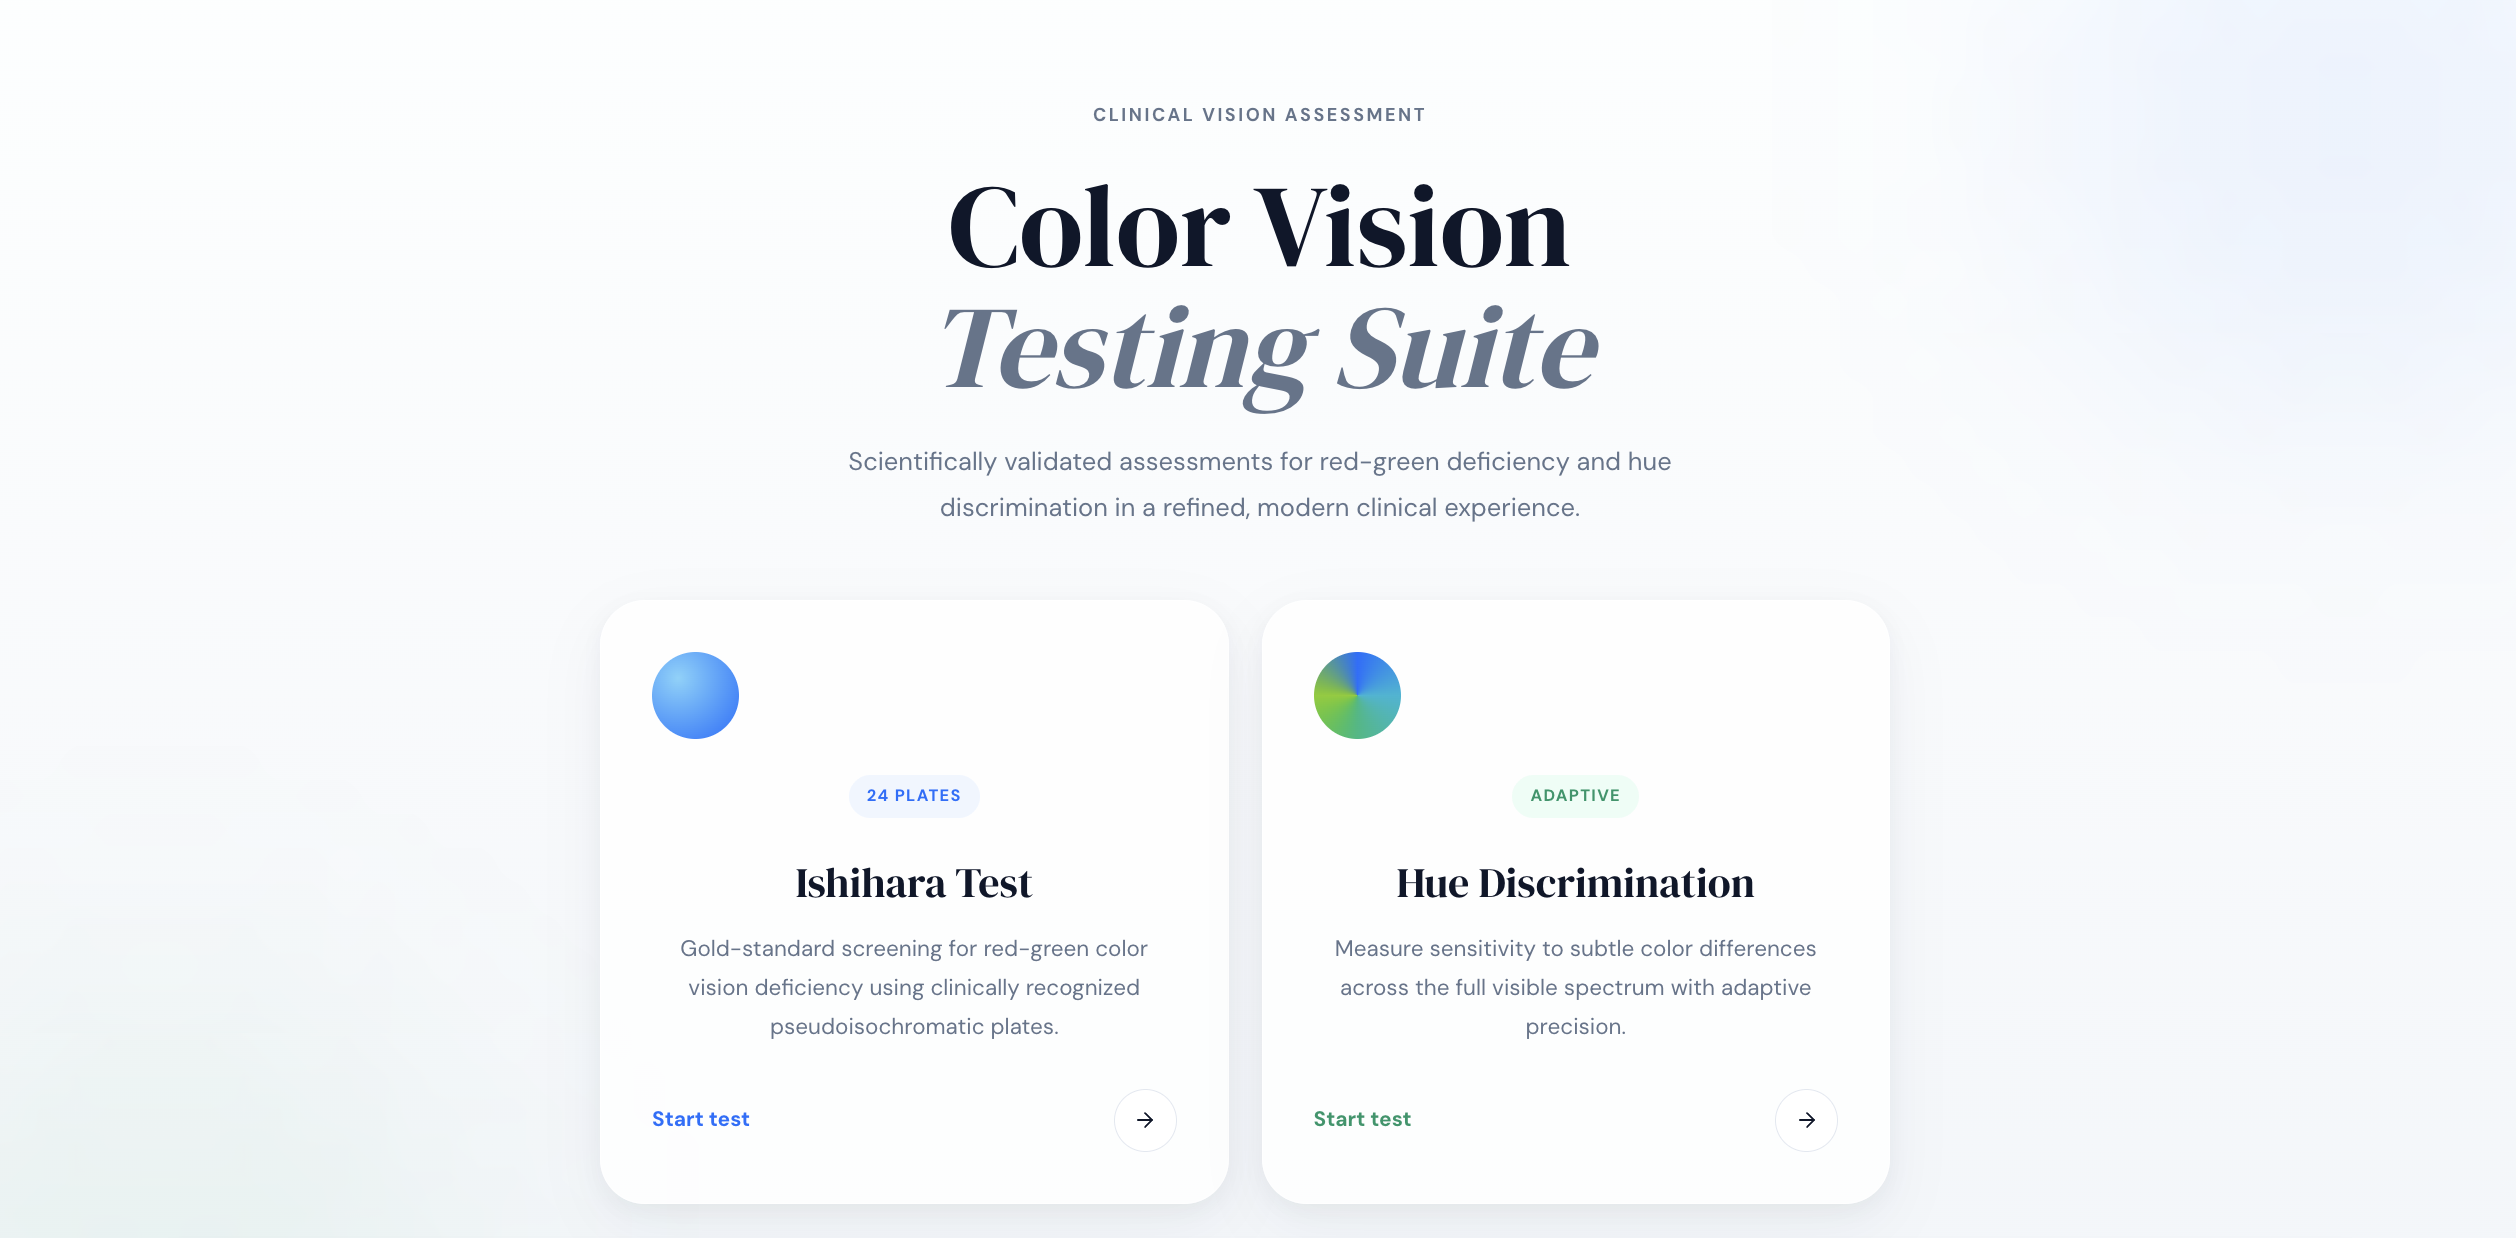
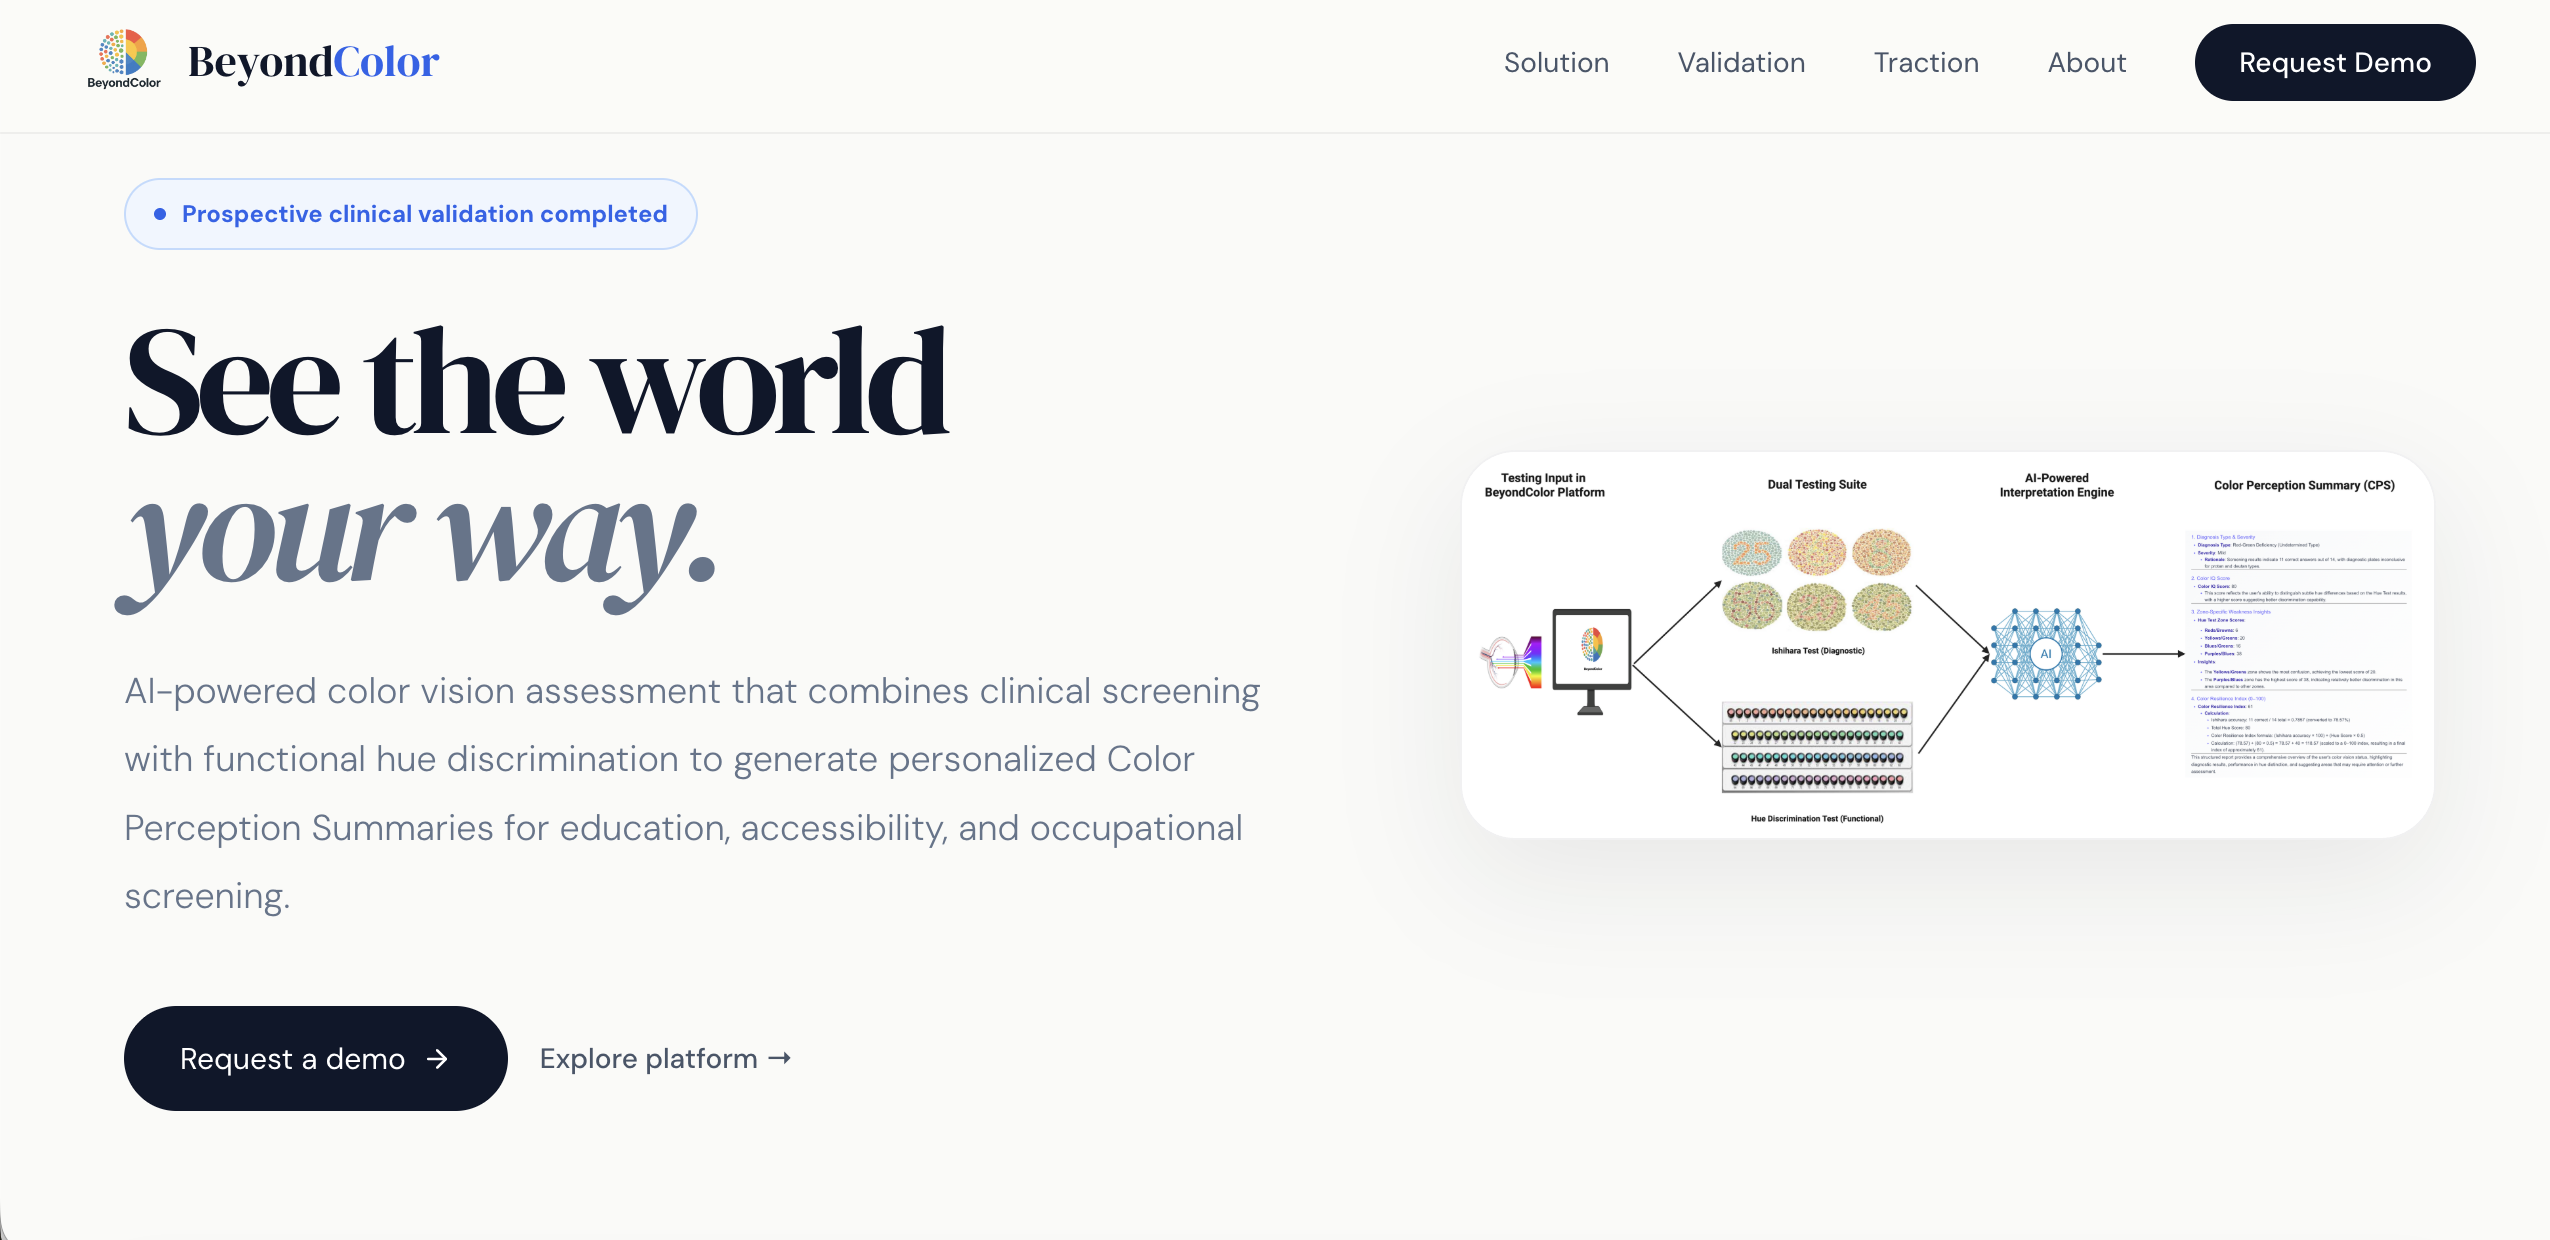
added search engine product

diff --git a/src/data/projects.ts b/src/data/projects.ts
@@ -46,7 +46,7 @@ export const projects: Project[] = [
       problem:
         "Student freelancers lack a trusted, structured platform to find work. Existing marketplaces are saturated, generic, and not tailored to student workflows or trust mechanisms.",
       solution:
-"Built a dedicated freelance marketplace with Stripe-based checkout infrastructure, student-focused onboarding, and a clean UX for posting, discovery, and transactions.",
+        "Built a dedicated freelance marketplace with Stripe-based checkout infrastructure, student-focused onboarding, and a clean UX for posting, discovery, and transactions.",
       outcome:
         "Secured $6K in non-dilutive funding, launched live payments, and onboarded early users actively posting and completing gigs.",
       role:
@@ -76,46 +76,46 @@ export const projects: Project[] = [
         "Founding member — contributed to product development, frontend engineering, and AI workflow design.",
     },
   },
- {
-  title: "BeyondColor",
-  tag: "healthtech",
-  accent: "#6366f1",
-  badge: "Co-founder",
-  tech: ["Next.js", "Computer Vision", "Healthcare", "Product"],
-  highlights: [
-    "$6K Non-Dilutive Funding",
-    "Chicago Booth I2M",
-    "Microsoft Pitch"
-  ],
-  status: "beta",
-  image: "/projects/beyondcolor.png",
-  link: "https://beyondcolor.app",
-  description:
-    "Funded digital health startup modernizing color vision screening through real-world perception and accessibility.",
+  {
+    title: "BeyondColor",
+    tag: "healthtech",
+    accent: "#6366f1",
+    badge: "Co-founder",
+    tech: ["Next.js", "Computer Vision", "Healthcare", "Product"],
+    highlights: [
+      "$6K Non-Dilutive Funding",
+      "Chicago Booth I2M",
+      "Microsoft Pitch"
+    ],
+    status: "beta",
+    image: "/projects/beyondcolor.png",
+    link: "https://beyondcolor.app",
+    description:
+      "Funded digital health startup modernizing color vision screening through real-world perception and accessibility.",
 
-  featured: true,
+    featured: true,
 
-  cred: [
-    { label: "$5K NSF i-Corps", type: "funding" },
-    { label: "$1K Booth I2M", type: "funding" },
-    { label: "Microsoft Pitch", type: "award" },
-    { label: "Chicago Booth", type: "program" },
-  ],
+    cred: [
+      { label: "$5K NSF i-Corps", type: "funding" },
+      { label: "$1K Booth I2M", type: "funding" },
+      { label: "Microsoft Pitch", type: "award" },
+      { label: "Chicago Booth", type: "program" },
+    ],
 
-  details: {
-    problem:
-      "Traditional color vision tests rely on static charts that fail to reflect real-world perception, often leading to inaccurate screening outcomes.",
+    details: {
+      problem:
+        "Traditional color vision tests rely on static charts that fail to reflect real-world perception, often leading to inaccurate screening outcomes.",
 
-    solution:
-      "Built a modern digital screening platform with interactive testing, accessibility-first UX, and future-ready adaptive analytics.",
+      solution:
+        "Built a modern digital screening platform with interactive testing, accessibility-first UX, and future-ready adaptive analytics.",
 
-    outcome:
-      "Secured $6K in non-dilutive funding, presented at Microsoft Chicago, completed customer discovery including San Francisco startup ecosystem interviews, and validated market demand across healthcare and accessibility sectors.",
+      outcome:
+        "Secured $6K in non-dilutive funding, presented at Microsoft Chicago, completed customer discovery including San Francisco startup ecosystem interviews, and validated market demand across healthcare and accessibility sectors.",
 
-    role:
-      "Co-founder — led product strategy, fundraising, customer discovery, partnerships, and product execution.",
+      role:
+        "Co-founder — led product strategy, fundraising, customer discovery, partnerships, and product execution.",
+    },
   },
-},
   {
     title: "ThreadO",
     tag: "product",
@@ -137,6 +137,45 @@ export const projects: Project[] = [
         "Lead engineer — architecture, Firebase integration, social graph logic, UI.",
     },
   },
+
+  {
+    title: "Distributed Search Engine",
+    tag: "systems",
+    accent: "#06b6d4",
+    tech: [
+      "Go",
+      "Distributed Systems",
+      "Docker",
+      "Concurrency",
+      "TF-IDF",
+      "REST APIs"
+    ],
+    highlights: [
+      "250K Documents Indexed",
+      "3 Search Shards",
+      "500 QPS Tested"
+    ],
+    status: "live",
+    image: "/projects/search-engine.png",
+    link: "https://github.com/yourusername/distributed-search-engine",
+    description:
+      "Horizontally scalable search engine built in Go with sharded inverted indexes, concurrent query fan-out, TF-IDF ranking, and top-K retrieval.",
+    featured: true,
+
+    details: {
+      problem:
+        "Traditional search systems become bottlenecked when a single node is responsible for indexing and ranking large document collections.",
+
+      solution:
+        "Built a distributed search architecture consisting of multiple shard servers and a query aggregator. Each shard maintains an inverted index and independently executes TF-IDF ranking, while the aggregator performs concurrent fan-out requests and merges global top-K results.",
+
+      outcome:
+        "Indexed 150,000+ documents across three shards and benchmarked the system under load using Vegeta. Achieved 500 requests per second with concurrent shard querying, connection pooling, and Dockerized deployment.",
+
+      role:
+        "Designed the distributed architecture, implemented indexing and ranking algorithms in Go, built shard aggregation logic, containerized services with Docker, and conducted performance benchmarking and optimization."
+    }
+  },
   {
     title: "SwapCampus",
     tag: "product",
@@ -149,13 +188,15 @@ export const projects: Project[] = [
     description: "Campus-only marketplace with identity-based access control.",
     details: {
       problem:
-        "Facebook Marketplace is unsafe for campus trades — no identity verification means scams are rampant and trust is near zero.",
+        "Buying and selling on large marketplaces can feel risky for students because there is little accountability and no campus-specific verification.",
+
       solution:
-        "Built a .edu email-gated marketplace with JWT-based identity, moderated listings, and an escrow-style handoff flow. MongoDB powers fast search across categories.",
+        "Built a campus-only marketplace with .edu email verification, secure authentication, moderated listings, and category-based search.",
+
       outcome:
-        "Live with 150+ listings in the first month. Zero reported scam incidents. Expanding to two more campuses.",
+        "Built and launched a functional campus marketplace with authentication, search, and listing management features.",
       role:
-        "Solo founder — backend, auth system, moderation tools, full deployment.",
+        "Solo builder — designed the product, built the backend and authentication system, and handled deployment.",
     },
   },
   {

diff --git a/src/components/HomePage.tsx b/src/components/HomePage.tsx
@@ -32,7 +32,7 @@ type Project = {
 
   badge?: "Founder" | "Co-founder" | "Founding member"; // 👈 ADD THIS
 
-  proof?: string; // 👈 OPTIONAL (for 1-line credibility like "150+ users")
+  proof?: string; // 
 
   details?: {
     problem: string;
@@ -190,6 +190,31 @@ cred: [
       role: "Lead engineer — architecture, Firebase integration, social graph logic, UI.",
     },
   },
+
+  {
+  title: "Distributed Search Engine",
+  slug: "distributed-search-engine",
+  tag: "systems",
+  accent: "#06b6d4",
+  tech: ["Go", "Docker", "TF-IDF", "Sharding", "Concurrency", "REST APIs"],
+  highlights: ["150K+ Docs", "3 Shards", "500 QPS Tested"],
+  status: "research",
+  image: "/projects/search-engine.png",
+  link: "https://github.com/manavisharma14/distributed-search-engine",
+  description:
+    "Distributed search engine with sharded inverted indexes, TF-IDF ranking, concurrent fan-out, and top-K retrieval.",
+  details: {
+    problem:
+      "Single-node search systems become bottlenecked when indexing and ranking large document collections under concurrent query load.",
+    solution:
+      "Built a Go-based distributed search architecture with shard servers maintaining inverted indexes and an aggregator that fans out queries concurrently, merges shard results, and returns global top-K matches.",
+    outcome:
+      "Indexed 250K+ documents across three shards and load-tested the system with Vegeta up to 500 QPS, identifying CPU saturation and request-queueing bottlenecks under high concurrency.",
+    role:
+      "Designed and implemented the shard indexing, TF-IDF ranking, min-heap top-K retrieval, concurrent aggregation layer, Docker Compose deployment, and load-testing workflow.",
+  },
+},
+  
   {
     title: "SwapCampus",
     slug: "swapcampus",
@@ -1502,6 +1527,10 @@ export default function HomePage() {
         .badge-product   { background: #fde68a; color: #a16207; }
         .badge-ai        { background: #e0e7ff; color: #3730a3; }
         .badge-media     { background: #fce7f3; color: #be185d; }
+        .badge-systems {
+  background: #cffafe;
+  color: #0e7490;
+}
         .proj-status {
           font-size: 10px;
           font-weight: 600;

diff --git a/src/app/about/page.tsx b/src/app/about/page.tsx
@@ -1158,6 +1158,10 @@ export default function HomePage() {
         .badge-freelance { background: #fef3c7; color: #92400e; }
         .badge-product   { background: #fde68a; color: #a16207; }
         .badge-ai        { background: #e0e7ff; color: #3730a3; }
+        .badge-systems {
+  background: #cffafe;
+  color: #0e7490;
+}
         .proj-status {
           font-size: 10px;
           font-weight: 600;

diff --git a/src/app/me/page.tsx b/src/app/me/page.tsx
@@ -703,6 +703,10 @@ export default function Home() {
 .badge-ai        { background: #e0e7ff; color: #3730a3; }
 .badge-freelance { background: #fef3c7; color: #92400e; }
 .badge-product   { background: #fde68a; color: #92400e; }
+.badge-systems {
+  background: #cffafe;
+  color: #0e7490;
+}
 
 /* DESC */
 .proj-desc {